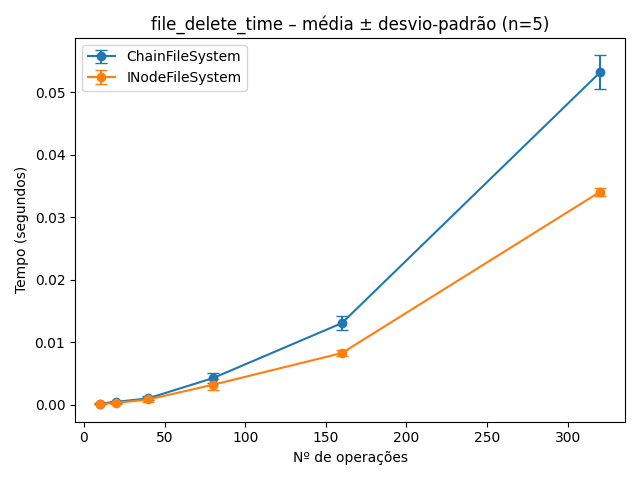
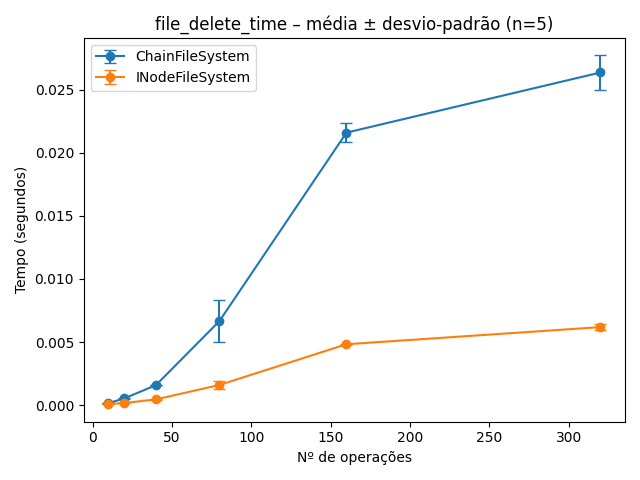
Melhornado a classe directory

diff --git a/directory.py b/directory.py
@@ -4,9 +4,11 @@ class Directory:
         self.name = name
         self.parent = parent
         self.fs = fs
+        self.entries = {}
 
         if inode_idx is not None:
             self.inode_idx = inode_idx
+            self._get_entries()
             return
 
         self.inode_idx = fs.alloc_inode()
@@ -15,19 +17,21 @@ class Directory:
         inode.file_type = "directory"
         inode.write_bytes(fs, b"")
 
-    def get_entries(self):
+    def _get_entries(self):
         inode = self.fs.inodes[self.inode_idx]
         raw = inode.get_data(self.fs)
         lines = raw.decode('utf-8').splitlines()
-        entries = {}
         for line in lines:
             if not line.strip():
                 continue
             name, idx = line.split(":")
-            entries[name] = int(idx)
-        return entries
+            self.entries[name] = int(idx)
+
+    def get_entries(self):
+        return self.entries
 
     def update_entries(self, entries: dict):
+        self.entries = entries
         lines = [f"{name}:{idx}" for name, idx in entries.items()]
         raw = "\n".join(lines).encode('utf-8')
         inode = self.fs.inodes[self.inode_idx]

diff --git a/main.py b/main.py
@@ -3,7 +3,7 @@ from inodefilesystem import INodeFileSystem
 from chainfilesystem import ChainFileSystem
 
 if __name__ == "__main__":
-    #fs = INodeFileSystem(1024, 512)
-    fs = ChainFileSystem(1024, 512)
+    fs = INodeFileSystem(1024, 512)
+    # fs = ChainFileSystem(1024, 512)
     shell = Shell(fs)
     shell.start()
